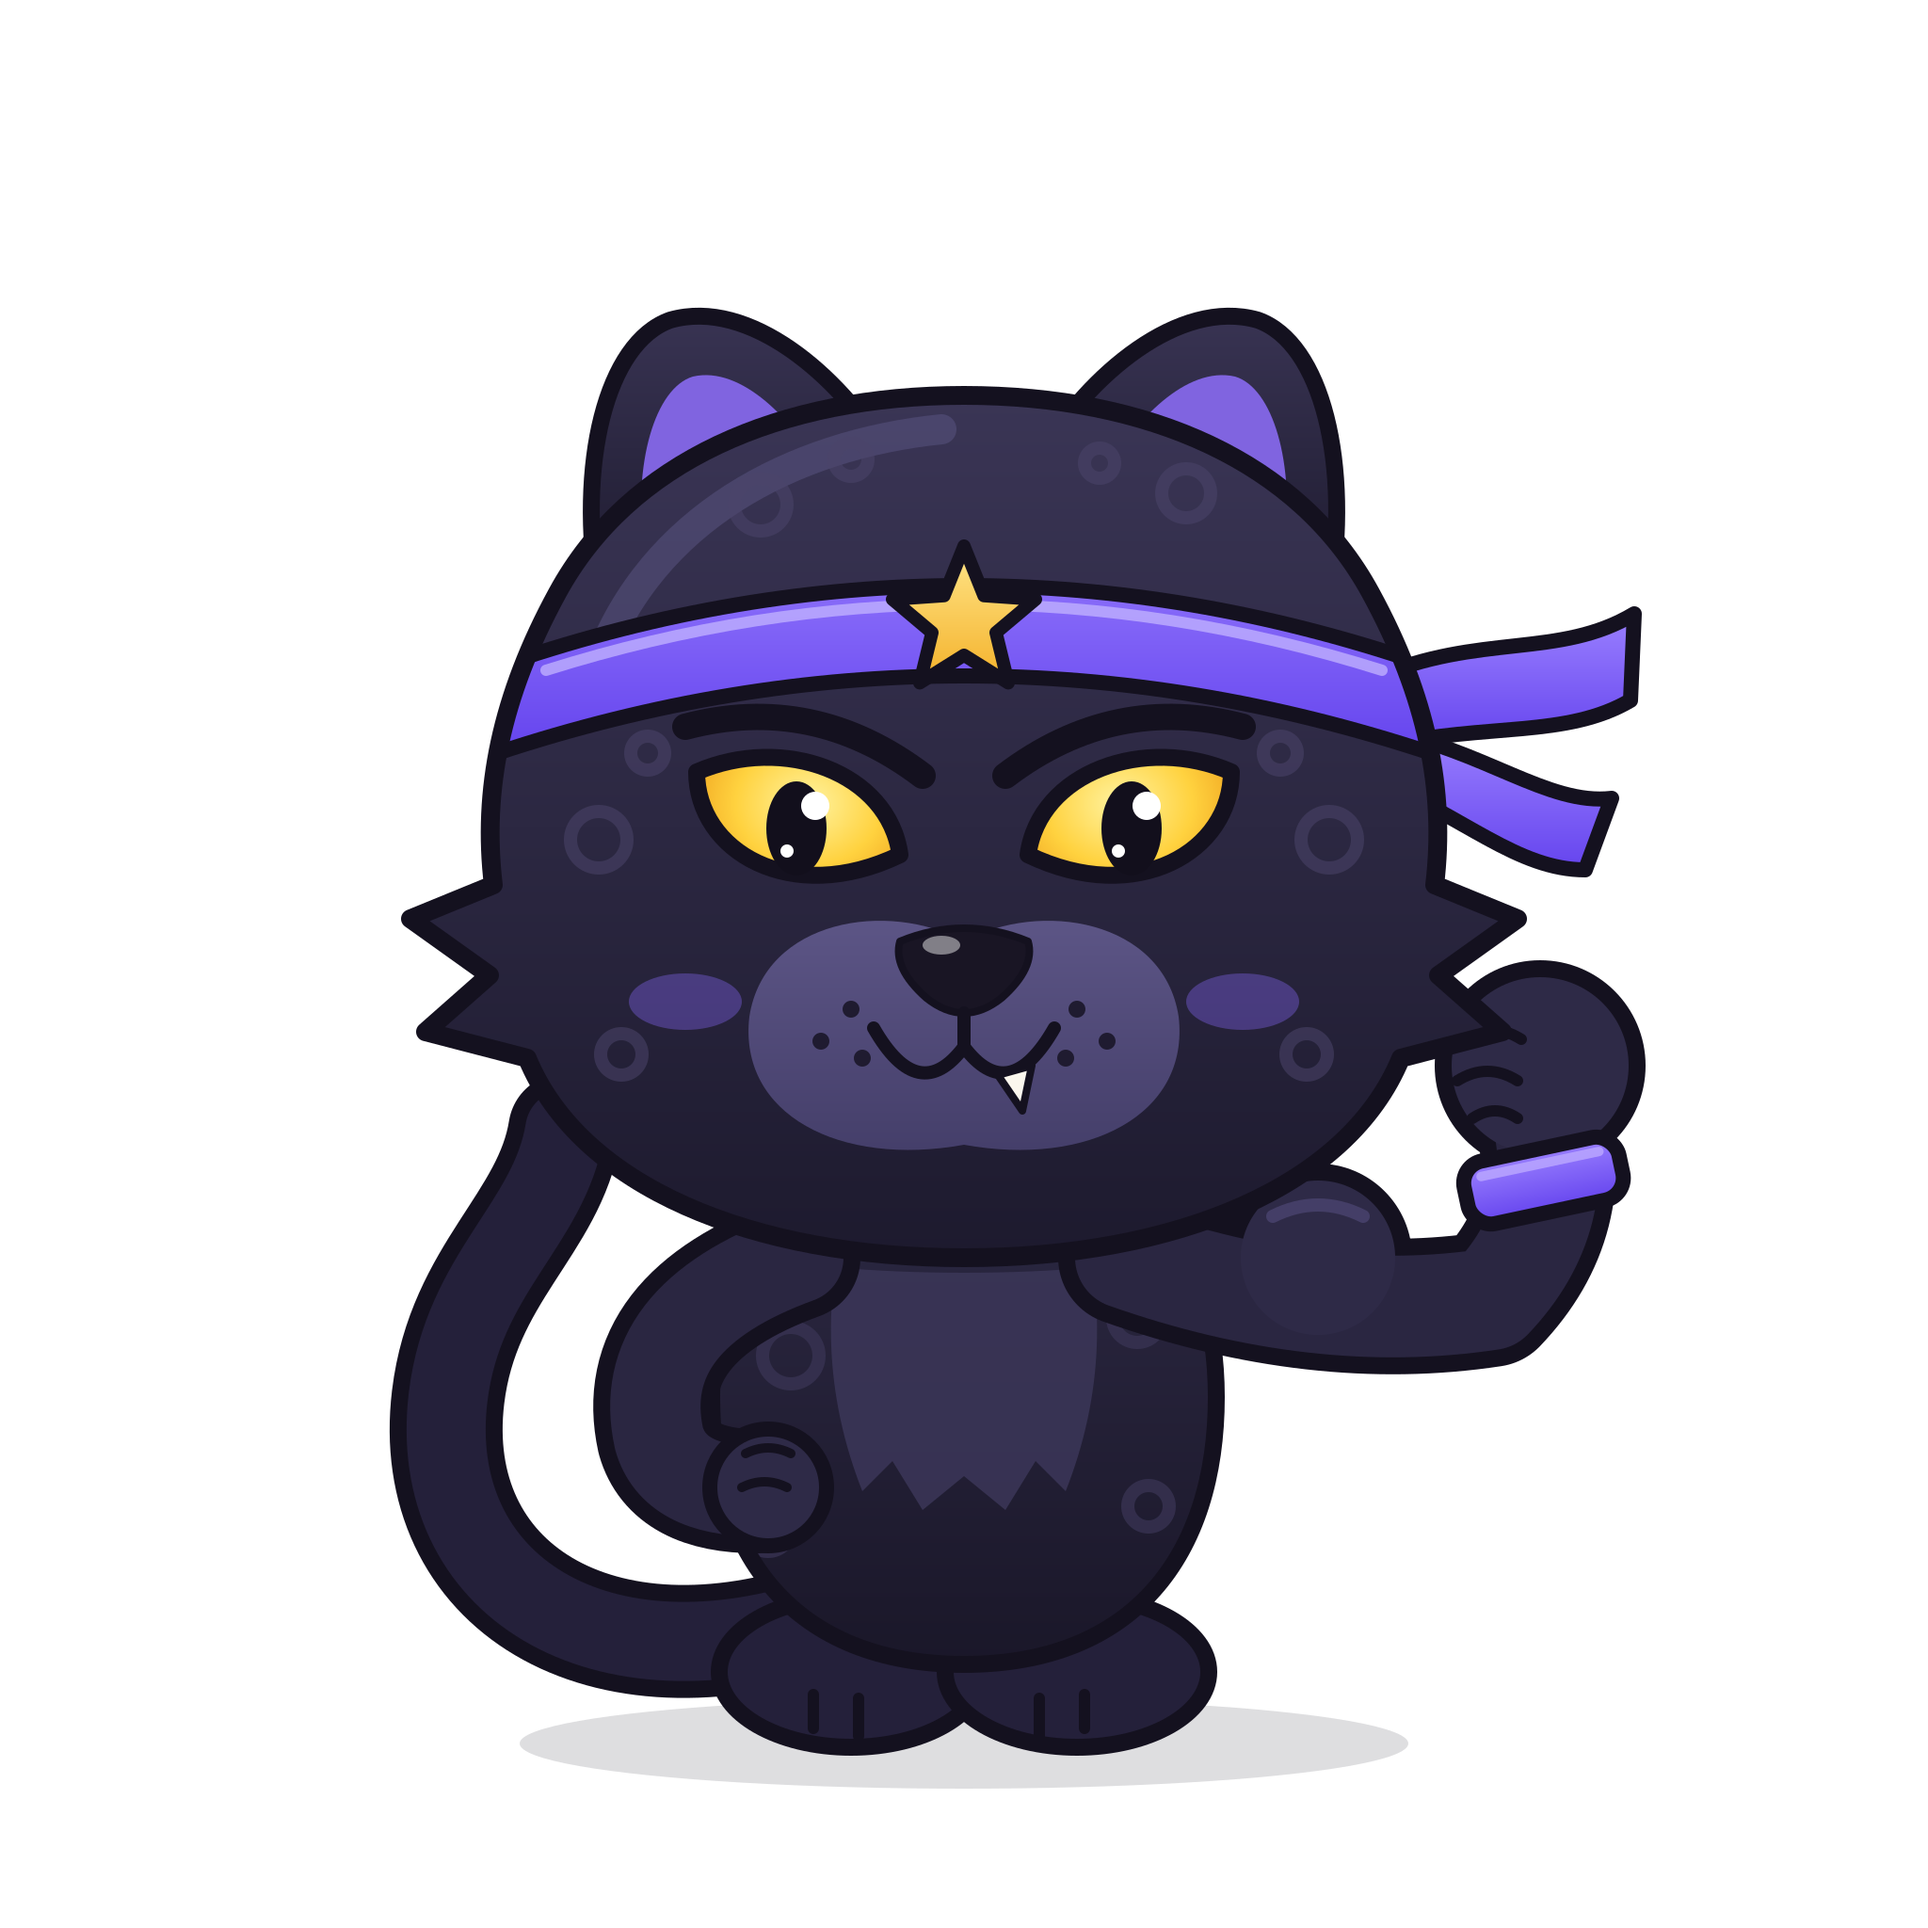
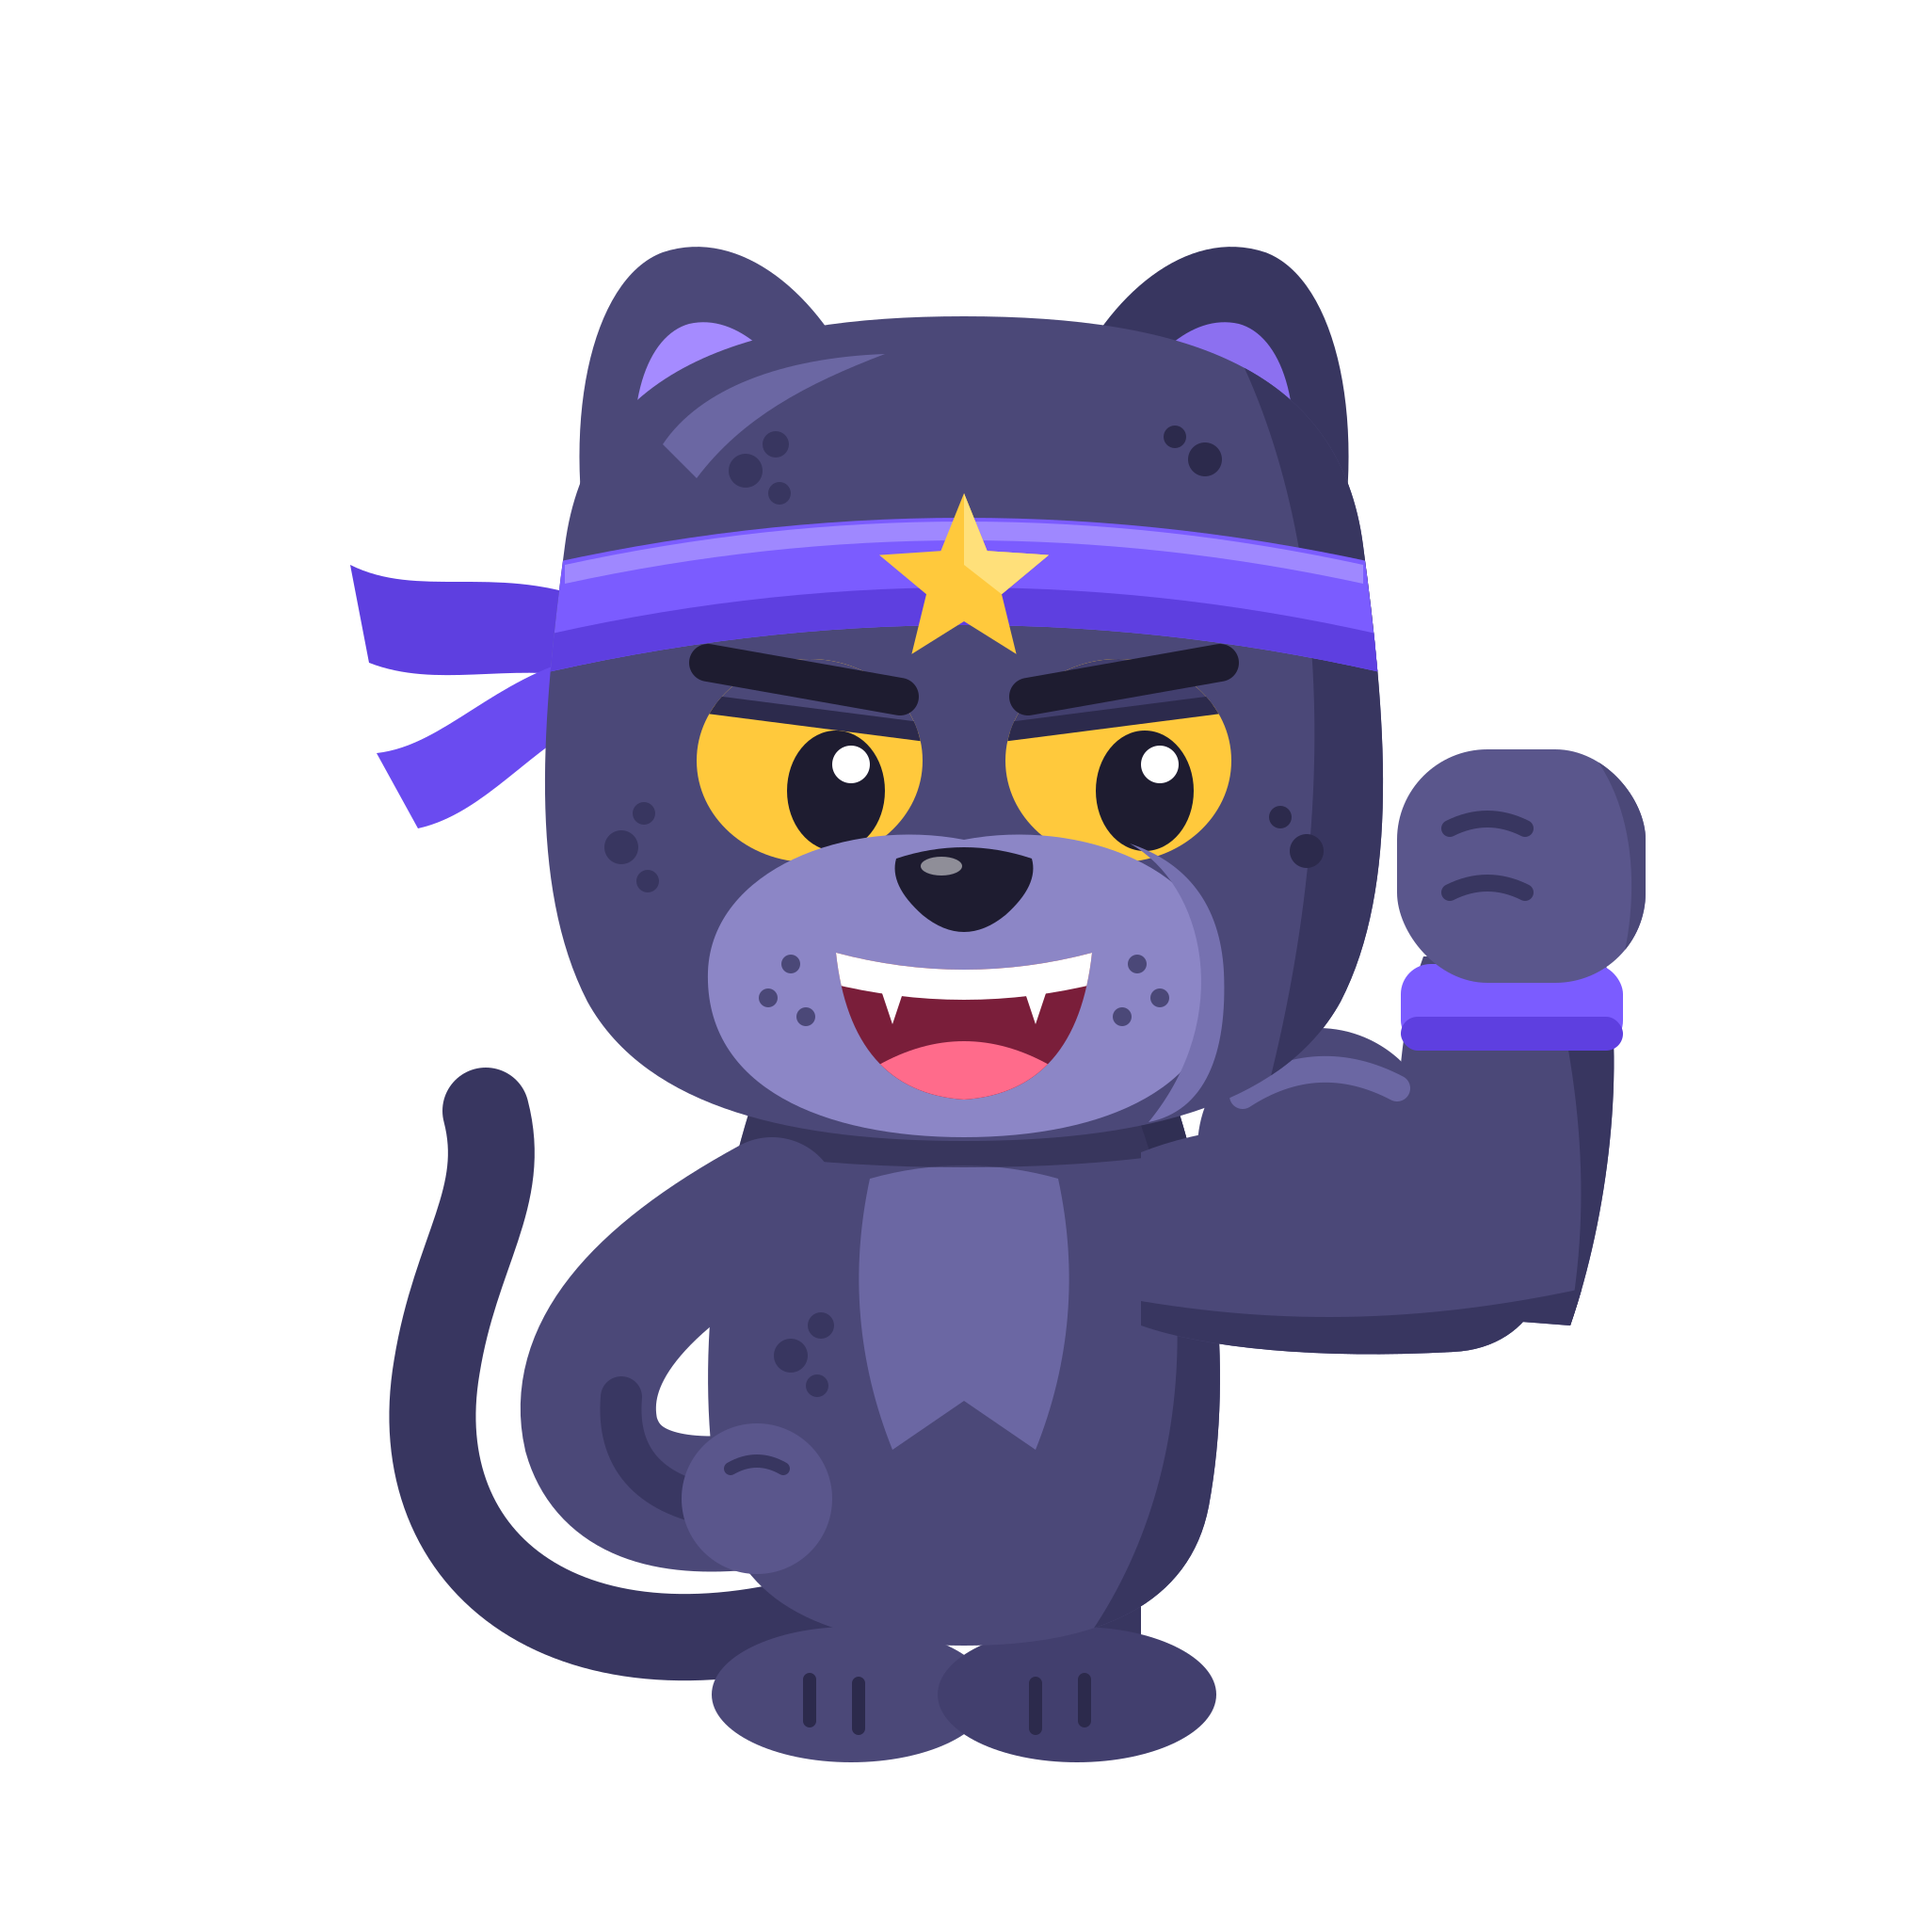
feat(astrafit): redraw panther mascot in flat achievement-badge style
Outline-free flat shapes with hard shade shapes, heavy-lidded eyes and an
open grin, per the owner's reference screenshots. Fur lifted to violet-indigo
so it reads on a dark app background.

Claude-Session: https://claude.ai/code/session_01BSt1KHA8UY16qTmcx16Hrn

diff --git a/astrafit/CLAUDE.md b/astrafit/CLAUDE.md
@@ -17,9 +17,12 @@ mascot/
   render_mascot.py    # SVG -> panther_1024.png / panther_2048.png (transparent), needs `pip install cairosvg`
 ```
 
-## Mascot v1 — panther
+## Mascot v2 — panther (current)
 
-Chibi black panther, front-facing, flexing one arm, other paw on hip.
-Palette: fur #1D1A2E→#3A3555 (blue-black, never pure black), muzzle #5E5788, outline #14111F (9–10 px),
-eyes gold #FFD23F, AstraFit violet #7B5CFF (headband, wristband, inner ears), gold star #F4B12A–#FFE68A.
-Panther cues: faint rosette rings, cheek tufts, small rounded ears, almond eyes under determined brows, tiny fang.
+Style follows the owner's reference (Duolingo-like achievement art): flat colours, **no outlines**,
+chunky rounded shapes, hard-edged shade shapes on the right side, big expressive eyes with heavy lids,
+open grin, exaggerated pose. v1 (outlined cartoon) is in git history.
+Chibi black panther flexing one arm, paw on hip. Palette: fur #4B4878 / shade #383660 / light #6B67A3,
+muzzle #8C86C6, pupils/brows/nose #1E1C30, eyes gold #FFC93C, AstraFit violet #7B5CFF (headband,
+wristband), inner ears #A58BFF, gold star #FFC93C, mouth #7A1E3A, tongue #FF6B8B.
+Fur stays violet-indigo (not black) so it reads on the app's dark background.
